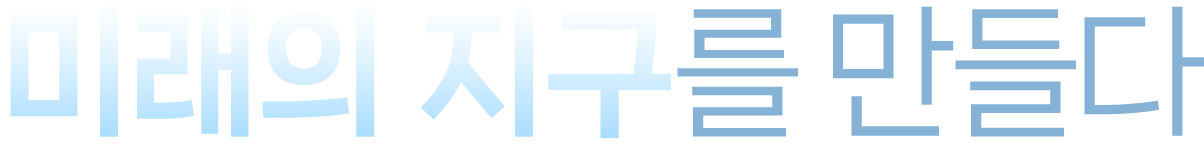
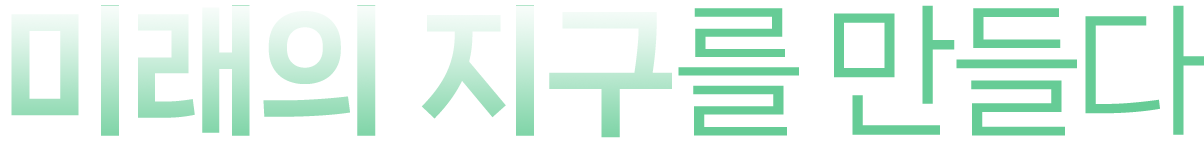
ver3

Changed region(s): [[0.0, 0.0276, 1.0, 0.9655], [0.4302, 0.0276, 0.461, 0.0552], [0.1844, 0.0276, 0.2151, 0.0552]]

diff --git a/css/common.css b/css/common.css
@@ -56,12 +56,11 @@ nav>div {
     border: 0px solid blue;
     text-align: center;
     line-height: 50px;
-    font-family: 'HallymMjo-Regular';
     cursor: pointer;
 }
 
 nav>div:hover {
-    border-bottom: 4px solid rgb(0, 0, 0);
+    border-bottom: 4px solid #41826e;
 }
 
 nav>div:nth-child(6),
@@ -111,8 +110,6 @@ nav>.menu_m>div {
     border: 0px solid white;
     text-align: center;
     line-height: 50px;
-    font-family: 'Gowun Batang';
-
     /* color: white; */
     cursor: pointer;
     border: 0px solid black
@@ -181,17 +178,15 @@ nav>.sub_menu>ul>li {
     line-height: 50px;
     text-align: center;
     cursor: pointer;
-    font-size: 0.8rem;
-}
-
-nav>.sub_menu>ul>li:hover {
-    /* background: rgb(245, 245, 245); */
-    border: 1px solid black
+    font-size: 0.95rem;
+    opacity: 0.8;
 }
 
 nav>.sub_menu>ul>li:hover a {
-    /* background: rgb(170, 210, 226); */
-    color: black;
+    /* background: rgb(245, 245, 245); */
+    /* border: 1px solid black */
+    color:#66cc96
+    
 }
 
 nav>.sub_menu>ul>li>a {
@@ -203,7 +198,7 @@ nav>.sub_menu>ul>li>a {
 .sec0>.title {
     width: 100%;
     height: 100px;
-    background: rgb(60, 60, 127);
+    background: #66cc96;
     text-align: center;
     line-height: 100px;
     color: white;
@@ -217,7 +212,7 @@ nav>.sub_menu>ul>li>a {
     width: 100%;
     height: 250px;
     margin: 0;
-    background: rgb(0, 0, 87);;
+    background: #41826e;
     border: 0px solid red;
     color: white;
 }
@@ -379,13 +374,13 @@ nav>.sub_menu>ul>li>a {
 
 .at2>.up{
     position: fixed;
-    top:90%;
+    top:86%;
     right:5%;
     height: 50px;
     width:50px;
     height: 50px;
     border-radius: 50px;
-    background: rgba(0, 0, 0, 0.523);
+    background: #c6c6c6ae;
     color:white;
     text-align: center;
     line-height: 50px;
@@ -400,13 +395,12 @@ nav>.sub_menu>ul>li>a {
     z-index: 50;
     width:50px;
     height:50px;
-    background: rgba(0, 0, 0, 0.523);
+    background: #41826e;
     color:white;
     /* border: 1px solid black; */
     border-radius: 50px;
-    font-size: 0.7rem;
     text-align: center;
-    line-height: 20px;
+    line-height: 50px;
 }
 .hp_info a{
     color:white;

diff --git a/membership/css/membership.css b/membership/css/membership.css
@@ -21,7 +21,7 @@
 .page>p {
     width: 33%;
     height: 100%;
-    border: 1px solid rgb(0, 0, 116);;
+    border: 1px solid #41826e;
     line-height: 70px;
     text-align: center;
     font-weight : 500;
@@ -30,7 +30,7 @@
 .page>p:nth-child(1) {
     border-top-left-radius: 20px;
     border-bottom-left-radius: 20px;
-    background: rgb(0, 0, 116);;
+    background: #41826e;
 }
 
 .page>p:nth-child(1) a {
@@ -141,7 +141,7 @@
     height: 50px;
     border: 0px solid black;
     border-radius: 20px;
-    background: rgb(0, 0, 116);;
+    background: #41826e;
     color: white;
     margin-right: 50px;
 }
@@ -264,15 +264,15 @@
     font-weight: 600;
 }
 .at1>.grade_box>.grade:nth-child(2)>li:nth-child(1) {
-    background: rgba(0, 0, 116, 0.237);
+    background: #66cc965d;
 }
 
 .at1>.grade_box>.grade:nth-child(3)>li:nth-child(1) {
-    background: rgba(0, 0, 116, 0.478);
+    background: #66cc96c5;
 }
 
 .at1>.grade_box>.grade:nth-child(4)>li:nth-child(1) {
-    background: rgba(0, 0, 116, 0.649);
+    background: #66cc96;
 }
 
 .at1>.grade_box>.grade:nth-child(1)>li:nth-child(2) {

diff --git a/membership/javascript/membership.js b/membership/javascript/membership.js
@@ -5,19 +5,19 @@ $(function () {
     $(".page_left").on("click", function () {
         $(".page p").css("background", "white");
         $(".page p a").css("color", "black");
-        $(".page_left").css("background", "rgb(0, 0, 116)");
+        $(".page_left").css("background", "#41826e");
         $(".page_left a").css("color", "white");
     })
     $(".page_middle").on("click", function () {
         $(".page p").css("background", "white");
         $(".page p a").css("color", "black");
-        $(".page_middle").css("background", "rgb(0, 0, 116)");
+        $(".page_middle").css("background", "#41826e");
         $(".page_middle a").css("color", "white");
     })
     $(".page_right").on("click", function () {
         $(".page p").css("background", "white");
         $(".page p a").css("color", "black");
-        $(".page_right").css("background", "rgb(0, 0, 116)");
+        $(".page_right").css("background", "#41826e");
         $(".page_right a").css("color", "white");
     })
 

diff --git a/qna.html b/qna.html
@@ -27,8 +27,7 @@
     <div class="home"></div>
     <div class="hp_info">
         <a href="info.html">
-            <i class="fa-regular fa-window-maximize"></i><br>
-            미리보기
+            <i class="fa-regular fa-window-maximize"></i>
         </a>
     </div>
     <nav class="menu">
@@ -190,6 +189,9 @@
                             본 페이지에서 게시된 이메일 주소가 자동 수집되는 것을 거부하며, 이를 위반시 정보통신법에 의거 처벌됨을 유념하시기 바랍니다.</p>
                         <p>COPYRIGHT@KOREA ENVIRONMENT CORPORATION. ALL RIGHTS RESERVED.</p>
                     </div>
+                </div>
+                <div class="up">
+                    <i class="fa-solid fa-angle-up"></i>
                 </div>
             </article>
         </section>

diff --git a/javascript/common.js b/javascript/common.js
@@ -58,7 +58,7 @@ $(function () {
     $(".sub").on("mouseover", function () {
         n = $(this).index();
         console.log(n);
-        $($(".menu div")[n]).css("border-bottom", "4px solid black")
+        $($(".menu div")[n]).css("border-bottom", "4px solid #41826e")
     })
     $(".sub").on("mouseout", function () {
         n = $(this).index();
@@ -67,7 +67,7 @@ $(function () {
     })
 
     $(".main_menu").on("mouseover", function () {
-        $(this).css("border-bottom", "4px solid black")
+        $(this).css("border-bottom", "4px solid #41826e")
     })
     $(".main_menu").on("mouseout", function () {
         $(this).css("border-bottom", "0px solid black")

diff --git a/css/index.css b/css/index.css
@@ -18,7 +18,7 @@
 .main_text {
     position: absolute;
     top: 20%;
-    left: 45%;
+    left: 50%;
     width: 550px;
     height: 500px;
     border: 0px solid white;
@@ -59,7 +59,7 @@
     line-height: 50px;
     text-align: center;
     font-size: 1rem;
-    background: rgb(22, 22, 154);
+    background: #41826e;
     border-radius: 50px;
 }
 
@@ -223,7 +223,7 @@
 
 .review>.reviewImg {
     width: 65%;
-    background: url(../img/JR_01.png);
+    background: url(../img/JR_01.jpg);
     background-size: 100% 100%;
 }
 

diff --git a/product.html b/product.html
@@ -28,12 +28,10 @@
     <div class="home"></div>
     <div class="hp_info">
         <a href="info.html">
-            <i class="fa-regular fa-window-maximize"></i><br>
-            미리보기
+            <i class="fa-regular fa-window-maximize"></i>
         </a>
     </div>
-    <div class="hp_info_ani">  
-    </div>
+
     <nav class="menu">
         <div class="main_menu"></div>
         <div class="main_menu"></div>

diff --git a/eco2.html b/eco2.html
@@ -30,11 +30,9 @@
     <div class="home"></div>
     <div class="hp_info">
         <a href="info.html">
-            <i class="fa-regular fa-window-maximize"></i><br>
-            미리보기
+            <i class="fa-regular fa-window-maximize"></i>
+
         </a>
-    </div>
-    <div class="hp_info_ani">  
     </div>
     <nav class="menu">
         <div class="main_menu"></div>

diff --git a/campaign1.html b/campaign1.html
@@ -25,11 +25,8 @@
     <div class="home"></div>
     <div class="hp_info">
         <a href="info.html">
-            <i class="fa-regular fa-window-maximize"></i><br>
-            미리보기
+            <i class="fa-regular fa-window-maximize"></i>
         </a>
-    </div>
-    <div class="hp_info_ani">  
     </div>
     <nav class="menu">
         <div class="main_menu"></div>

diff --git a/campaign2.html b/campaign2.html
@@ -25,11 +25,8 @@
     <div class="home"></div>
     <div class="hp_info">
         <a href="info.html">
-            <i class="fa-regular fa-window-maximize"></i><br>
-            미리보기
+            <i class="fa-regular fa-window-maximize"></i>
         </a>
-    </div>
-    <div class="hp_info_ani">  
     </div>
     <nav class="menu">
         <div class="main_menu"></div>

diff --git a/cart.html b/cart.html
@@ -26,11 +26,8 @@
     <div class="home"></div>
     <div class="hp_info">
         <a href="info.html">
-            <i class="fa-regular fa-window-maximize"></i><br>
-            미리보기
+            <i class="fa-regular fa-window-maximize"></i>
         </a>
-    </div>
-    <div class="hp_info_ani">  
     </div>
     <nav class="menu">
         <div class="main_menu"></div>

diff --git a/eco1.html b/eco1.html
@@ -26,11 +26,8 @@
     <div class="home"></div>
     <div class="hp_info">
         <a href="info.html">
-            <i class="fa-regular fa-window-maximize"></i><br>
-            미리보기
+            <i class="fa-regular fa-window-maximize"></i>
         </a>
-    </div>
-    <div class="hp_info_ani">  
     </div>
     <nav class="menu">
         <div class="main_menu"></div>
